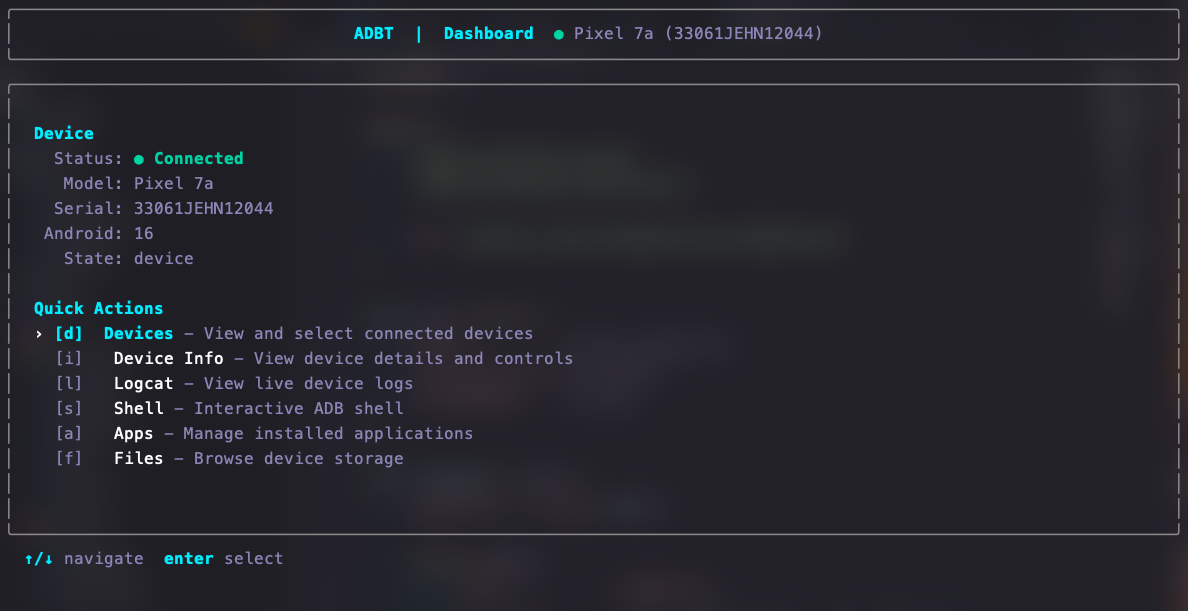
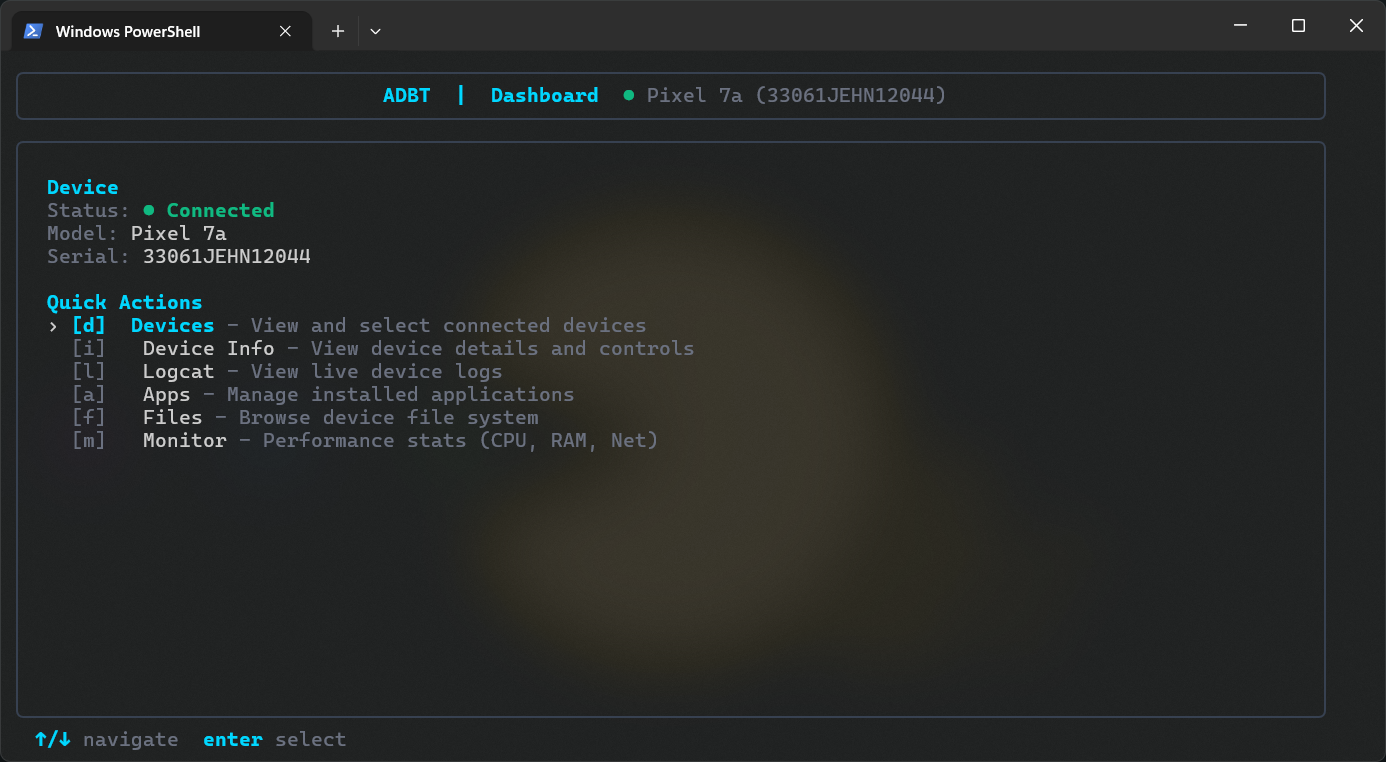
Screenshot updated

diff --git a/README.md b/README.md
@@ -3,9 +3,7 @@
 **adbt** is a modern, keyboard-driven **Terminal User Interface (TUI)** for interacting with Android devices using the Android Debug Bridge (ADB).
 It provides a structured and interactive alternative to raw `adb` commands, focusing on clarity, correctness, and real-time device interaction entirely from the terminal.
 
-Built in **Go** using **Charm’s Bubble Tea framework**.
-
----
+## Built in **Go** using **Charm’s Bubble Tea framework**.
 
 ## Screenshots
 
@@ -13,45 +11,59 @@ Built in **Go** using **Charm’s Bubble Tea framework**.
 | --------------------------------------- | ------------------------------------------- |
 | ![Dashboard](screenshots/dashboard.png) | ![Device Info](screenshots/device_info.png) |
 
+| App Manager                                 | File Explorer                                   |
+| ------------------------------------------- | ----------------------------------------------- |
+| ![App Manager](screenshots/app_manager.png) | ![File Explorer](screenshots/file_explorer.png) |
+
+| Logcat                            | Performance Monitor                         |
+| --------------------------------- | ------------------------------------------- |
+| ![Logcat](screenshots/logcat.png) | ![Performance](screenshots/performance.png) |
+
 ---
 
 ## Features
 
 ### 🚀 Device Management
--   **Automatic Detection**: Real-time monitoring of connected devices.
--   **Wireless Pairing**: Pair devices via QR Code logic (IP/Port/PIN) directly from the terminal.
--   **Device Info**: View detailed stats (Battery, Storage, Resolution, Android Version).
--   **Power Controls**: Reboot, Recovery, Bootloader, and Screen Toggle.
--   **Scrcpy Integration**: Launch screen mirroring with a single keypress.
+
+- **Automatic Detection**: Real-time monitoring of connected devices.
+- **Wireless Pairing**: Pair devices via QR Code logic (IP/Port/PIN) directly from the terminal.
+- **Device Info**: View detailed stats (Battery, Storage, Resolution, Android Version).
+- **Power Controls**: Reboot, Recovery, Bootloader, and Screen Toggle.
+- **Scrcpy Integration**: Launch screen mirroring with a single keypress.
 
 ### 📊 Performance Monitor
--   **Real-time Stats**: CPU, Memory, and Network usage monitoring.
--   **Visual Graphs**: Live progress bars for system resource consumption.
+
+- **Real-time Stats**: CPU, Memory, and Network usage monitoring.
+- **Visual Graphs**: Live progress bars for system resource consumption.
 
 ### 📦 App Manager
--   **List & Search**: Browse all installed applications.
--   **Filtering**: Toggle between User and System apps.
--   **Actions**:
-    -   Launch App
-    -   Force Stop
-    -   Clear Data
-    -   Uninstall
+
+- **List & Search**: Browse all installed applications.
+- **Filtering**: Toggle between User and System apps.
+- **Actions**:
+    - Launch App
+    - Force Stop
+    - Clear Data
+    - Uninstall
 
 ### 📂 File Explorer
--   **Browse**: Navigate the device file system.
--   **Transfer**: Pull files from device to your computer.
--   **Manage**: Delete files and directories with confirmation.
+
+- **Browse**: Navigate the device file system.
+- **Transfer**: Pull files from device to your computer.
+- **Manage**: Delete files and directories with confirmation.
 
 ### 📝 Logcat Viewer
--   **Live Streaming**: Real-time logs.
--   **Filtering**: Filter by log level (Debug, Info, Error, Fatal).
--   **Search**: Text search with highlighting.
+
+- **Live Streaming**: Real-time logs.
+- **Filtering**: Filter by log level (Debug, Info, Error, Fatal).
+- **Search**: Text search with highlighting.
 
 ---
 
 ## Installation
 
 ### Homebrew (macOS / Linux)
+
 ```bash
 brew install --cask SakshhamTheCoder/tap/adbt
 # or
@@ -60,15 +72,18 @@ brew install --cask adbt
 ```
 
 ### Scoop (Windows)
+
 ```powershell
 scoop bucket add SakshhamTheCoder https://github.com/SakshhamTheCoder/scoop-bucket
 scoop install adbt
 ```
 
 ### Linux Packages
+
 Download the `.deb` or `.rpm` files from the [Releases Page](https://github.com/SakshhamTheCoder/adbt/releases).
 
 ### Go Install
+
 ```bash
 go install github.com/SakshhamTheCoder/adbt/cmd/adbt@latest
 ```
@@ -78,44 +93,50 @@ go install github.com/SakshhamTheCoder/adbt/cmd/adbt@latest
 ## Keyboard Shortcuts
 
 ### Global
-| Key | Action |
-| --- | --- |
-| `q` / `Ctrl+C` | Quit |
-| `Esc` | Back / Cancel |
-| `↑` `↓` / `k` `j` | Navigate |
-| `Enter` | Select / Confirm |
+
+| Key               | Action           |
+| ----------------- | ---------------- |
+| `q` / `Ctrl+C`    | Quit             |
+| `Esc`             | Back / Cancel    |
+| `↑` `↓` / `k` `j` | Navigate         |
+| `Enter`           | Select / Confirm |
 
 ### Dashboard
-| Key | Action |
-| --- | --- |
-| `d` | Devices |
+
+| Key | Action              |
+| --- | ------------------- |
+| `d` | Devices             |
 | `m` | Performance Monitor |
-| `a` | App Manager |
-| `f` | File Explorer |
-| `l` | Logcat |
-| `i` | Device Info |
+| `a` | App Manager         |
+| `f` | File Explorer       |
+| `l` | Logcat              |
+| `i` | Device Info         |
 
 ### App Manager
-| Key | Action |
-| --- | --- |
-| `/` | Search |
-| `f` | Filter (User/System) |
-| `s` | Force Stop |
-| `x` | Clear Data |
-| `u` | Uninstall |
-| `Enter` | Launch |
+
+| Key     | Action               |
+| ------- | -------------------- |
+| `/`     | Search               |
+| `f`     | Filter (User/System) |
+| `s`     | Force Stop           |
+| `x`     | Clear Data           |
+| `u`     | Uninstall            |
+| `Enter` | Launch               |
 
 ### File Explorer
-| Key | Action |
-| --- | --- |
-| `p` | Pull File |
-| `d` | Delete |
-| `Backspace` | Go Up |
+
+| Key         | Action    |
+| ----------- | --------- |
+| `p`         | Pull File |
+| `d`         | Delete    |
+| `Backspace` | Go Up     |
 
 ---
 
 ## Contributing
+
 Contributions are welcome! Fork the repository, create a feature branch, and submit a pull request.
 
 ## License
+
 MIT License
